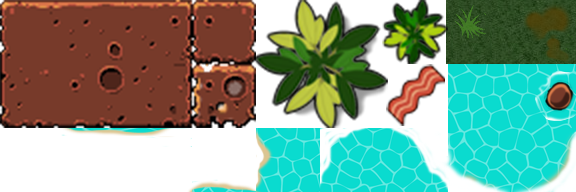
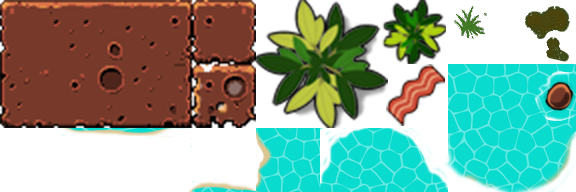
Updated the map editor. Still not editable, but map renders ok.

Changed region(s): [[0.75, 0.0, 1.0, 0.3438]]

diff --git a/webroot/data/levelData2.htm b/webroot/data/levelData2.htm
@@ -3,6 +3,20 @@
 <head>
 <meta charset="UTF-8">
 <title>LevelDataEditor</title>
+<style type="text/css">
+blank, pixel {
+	width: 10px;
+	height: 10px;
+	background-color: #ddeedd;
+	display: inline-block;
+}
+pixel {
+	background-image:url('../img/tiles-1.png');
+	background-repeat: no-repeat;
+	background-position: 0px 0px;
+	background-size: 90px auto;
+}
+</style>
 <script type="text/javascript" src="levelDataOld.js"></script>
 <script type="text/javascript">
 var uiEdit;
@@ -10,99 +24,50 @@ var uiDebug;
 var iWidth = 64;
 var iHeight = 64;
 
-var UNK = "?";
-var SPACE = " ";
-var BRICK = "B";
-var PLANT_SMALL = "Y";
-var PLANT_NW = "1";
-var PLANT_NE = "2";
-var PLANT_SW = "3";
-var PLANT_SE = "4";
-var TUFT = "*";
-var ROCK = "O";
-var MUD = ".";
-var WATER = "~";
-var WATER_NC = "-";
-var WATER_SE = "W";
-var WATER_SW = "K";
-var WATER_SC = "X";
-var WATER_SS = "Z";
-var gl = [
-	SPACE
-	,UNK
-	,UNK
-	,UNK
-	,BRICK
-	,PLANT_NW
-	,PLANT_NE
-	,PLANT_SMALL
-	,TUFT
-	,MUD
-	,UNK
-	,UNK
-	,UNK
-	,UNK
-	,PLANT_SW
-	,PLANT_SE
-	,UNK
-	,WATER
-	,ROCK
-	,UNK
-	,WATER_SC
-	,WATER_SS
-	,WATER_NC
-	,WATER_SS
-	,WATER_SE
-	,WATER
-	,WATER_SW
-	,WATER
-	,UNK
-	,UNK
-	,UNK
-	,UNK
-	,UNK
-	,UNK
-	,UNK
-	,UNK
-];
-var NL = "\n";
+var NL = "<br>";
 var iGL = 0;
 /*
 for (; iGL < gl.length; iGL++) {
 	if (gl[iGL] == UNK) {}
 }
 */
+var dim = {
+	cols: 9
+	,pixXY: 10
+};
+function decorateImg(iP) {
+	if (iP == 0) {
+		return "<blank></blank>";
+	}
+	//var iX = (iP % dim.cols) - 1;
+	var iX = ((iP - 1) % dim.cols);
+	var iY = Math.round((iP - iX) / dim.cols);
+	var sOut = "<pixel style=\"background-position: -" 
+		+ (iX * dim.pixXY)
+		+ "px -"
+		+ (iY * dim.pixXY)
+		+ "px;\" title=\"pos:" + iP + "\"></pixel>"
+		;
+	return sOut;
+}
 function createMapFromData() {
 	uiDebug.innerHTML = iWidth + " * " + iHeight;
 	var sOut = "";
 	var iCounterXY = 0;
 	for (var iH = 0; iH < iHeight; iH++) {
 		for (var iW = 0; iW < iWidth; iW++) {
-			var ixValAtXY = data[iCounterXY];
-			/*
-			case 0:
-				sOut += SPACE;
-				break;
-			default:
-				sOut += BRICK;
-				break;
-			}
-			*/
-			var sGL = gl[ixValAtXY];			
-			if (sGL == UNK) {
-				sOut += "<span title=\"" + ixValAtXY + "\">" + gl[ixValAtXY] + "<span>";
-			} else {
-				sOut += gl[ixValAtXY];
-			}
+			var iImgPos = data[iCounterXY];
+			sOut += decorateImg(iImgPos);
 			iCounterXY++;
 		}	
-		sOut += "|";
 		sOut += NL;
 	}	
 	uiEdit.innerHTML = sOut;
 }
 window.addEventListener('DOMContentLoaded', (event) => {
-	uiEdit = document.querySelector("pre[contenteditable=true]");
+	uiEdit = document.querySelector("div#uiEdit");
+	uiEdit.style.width = ((iWidth + 2) * dim.pixXY) + "px";
+	uiEdit.style.height = ((iWidth + 2) * dim.pixXY) + "px";
 	uiDebug = document.querySelector("div#debug");
 	createMapFromData();
 });
@@ -111,7 +76,7 @@ window.addEventListener('DOMContentLoaded', (event) => {
 </head>
 <body>
 <div id="debug"></div>
-<pre contenteditable="true" style="line-height: 60%;font-size:15pt;"></pre>
+<div id="uiEdit" style="width: 800px;line-height:10px;"></div>
 <textarea class="width: 1500px;height:200px;"></textarea>
 </body>
 </html>
